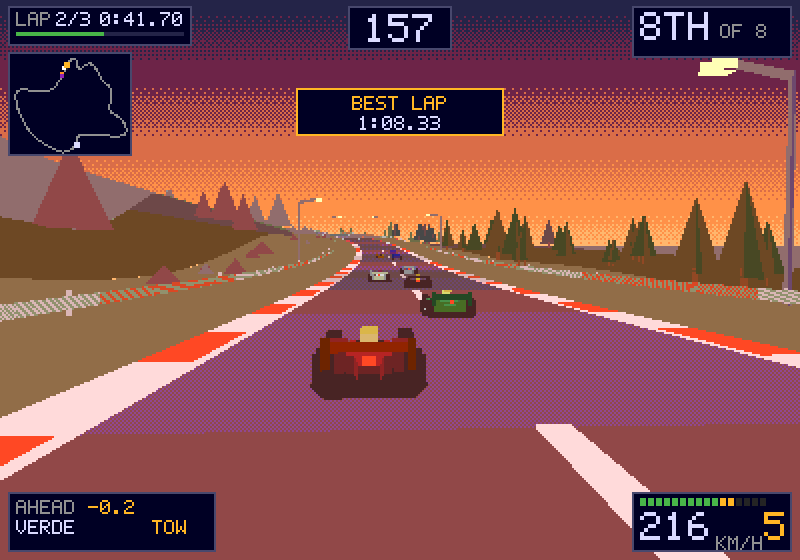
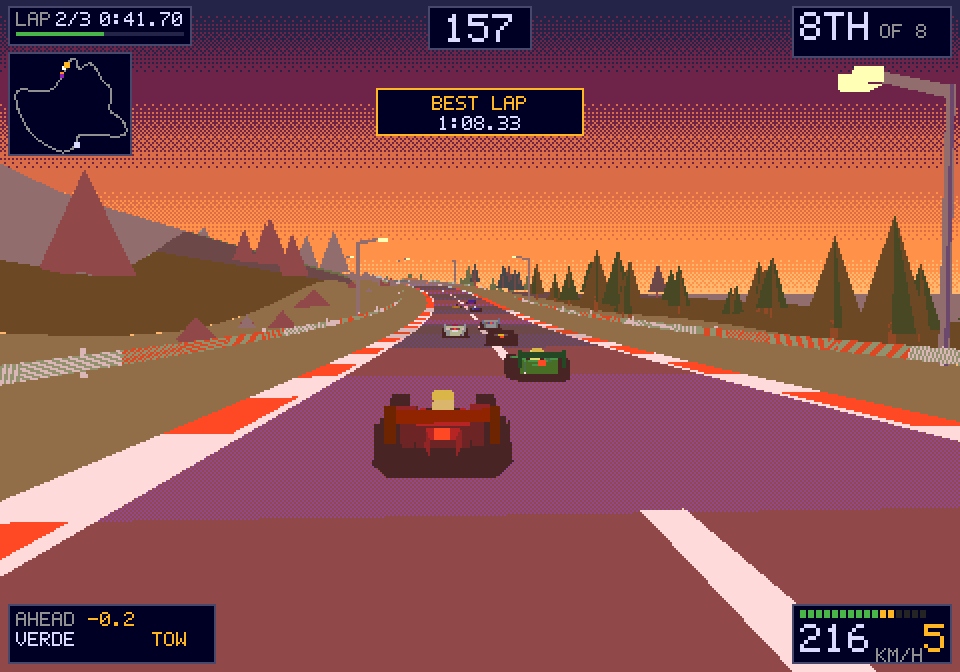
480 x 336
Half again the 320 x 224 a Mega Drive put on a television, in the same ten by
seven shape, with the field of view scaled to match so nothing about the
driving changes. A hundred and sixty-one thousand pixels against a hundred
and twelve, and the frame goes from 2.2 to 2.4 milliseconds - the fill was
never the cost, the per-triangle setup is.

Claude-Session: https://claude.ai/code/session_01PZ8PyQkJ4DK33cMJsF6sRB

diff --git a/src/constants.js b/src/constants.js
@@ -277,16 +277,17 @@ export function gearAt(speed) {
  * twelve that machine could make, and there is not a texture anywhere.
  */
 /**
- * Four hundred by two hundred and eighty.
+ * Four hundred and eighty by three hundred and thirty-six.
  *
- * A quarter more than the 320 x 224 a Mega Drive put on a television, in the
- * same ten by seven shape, and about the most that can be added without the
- * pixels stopping being pixels. It costs half again as many of them to fill -
- * a hundred and twelve thousand against seventy-two - which the software
- * rasteriser has the room for and the look has the tolerance for.
+ * Half again the 320 x 224 a Mega Drive put on a television, in the same ten by
+ * seven shape. A hundred and sixty-one thousand pixels against seventy-two,
+ * which the software rasteriser has the room for - the frame is still a third of
+ * its budget - and which the look still tolerates, because what makes this read
+ * as sixteen-bit is the flat shading and the nine-bit palette rather than the
+ * count of pixels.
  */
-export const SCREEN_W = 400;
-export const SCREEN_H = 280;
+export const SCREEN_W = 480;
+export const SCREEN_H = 336;
 
 /**
  * Field of view, as the focal length of a screen this wide.
@@ -297,8 +298,8 @@ export const SCREEN_H = 280;
  * through the middle of it. The eye reads that as velocity far more readily than
  * it reads a number changing in the corner.
  */
-export const FOCAL = 312;
-export const FOCAL_FAST = 222;
+export const FOCAL = 374;
+export const FOCAL_FAST = 266;
 /** Nothing nearer than this is drawn, because the maths stops working at zero. */
 export const NEAR = 0.55;
 

diff --git a/README.md b/README.md
@@ -222,13 +222,13 @@ billboards, no textures anywhere. Go round a bend and the palm tree turns,
 because it is actually there.
 
 The renderer is about five hundred lines and does not use the GPU. It transforms,
-clips, projects and fills every triangle by hand into a `Uint32Array` at 400 ×
-280 — a quarter more than the 320 × 224 a Mega Drive put on a television, in the
-same ten by seven shape, and about the most that can be added before the pixels
-stop being pixels — and blows the result up to fit the window with the smoothing
-turned off. That is not the slow way round: three thousand flat triangles over a
-hundred and twelve thousand pixels is about two milliseconds, which leaves
-fourteen of the sixteen a frame gets.
+clips, projects and fills every triangle by hand into a `Uint32Array` at 480 ×
+336 — half again the 320 × 224 a Mega Drive put on a television, in the same ten
+by seven shape — and blows the result up to fit the window with the smoothing
+turned off. That is not the slow way round: four thousand flat triangles over a
+hundred and sixty thousand pixels is under two and a half milliseconds, which
+leaves fourteen of the sixteen a frame gets. What makes this read as sixteen-bit
+is the flat shading and the nine-bit palette, not the count of pixels.
 
 Doing it in software buys the one thing a modern pipeline will not give you,
 which is the actual look:
